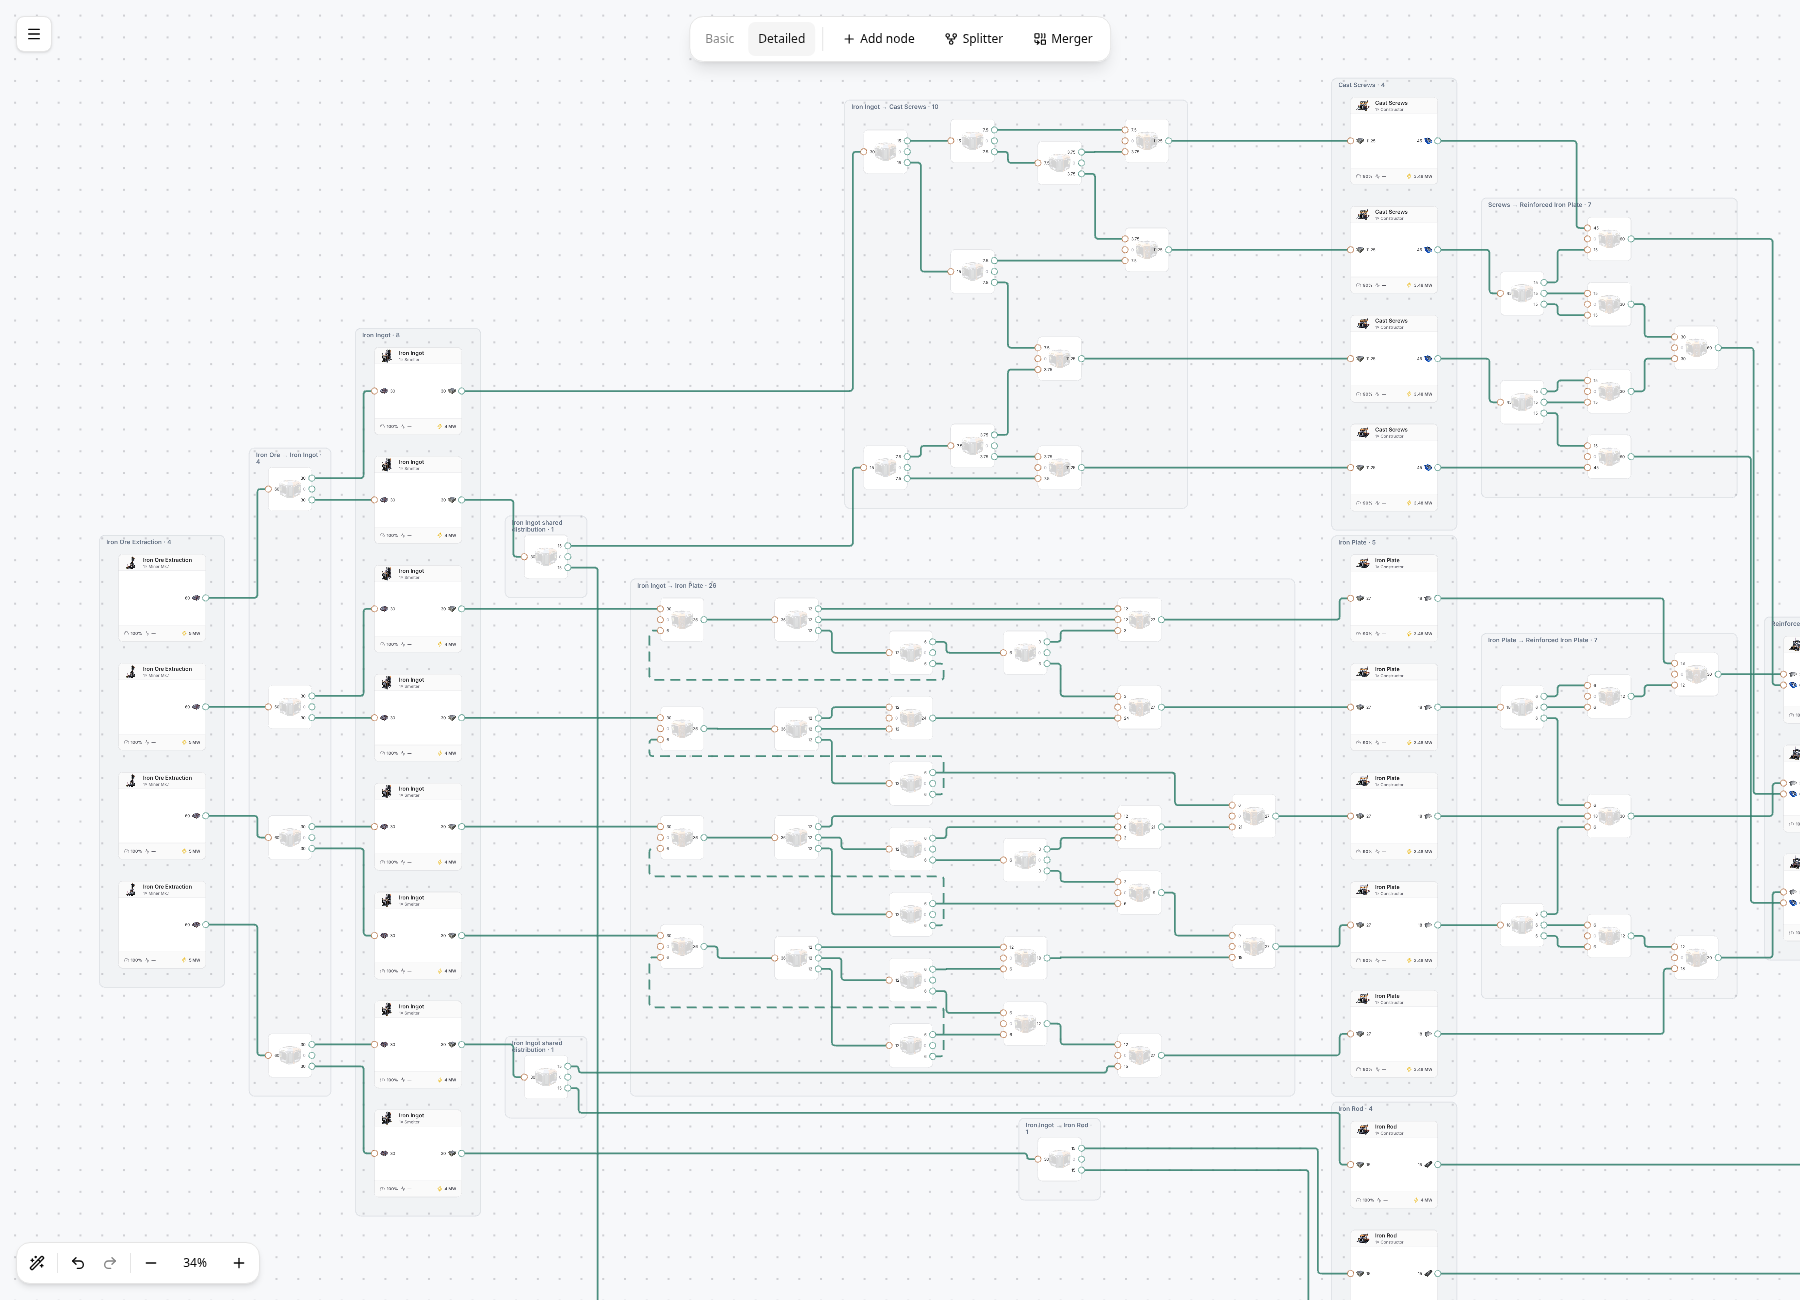
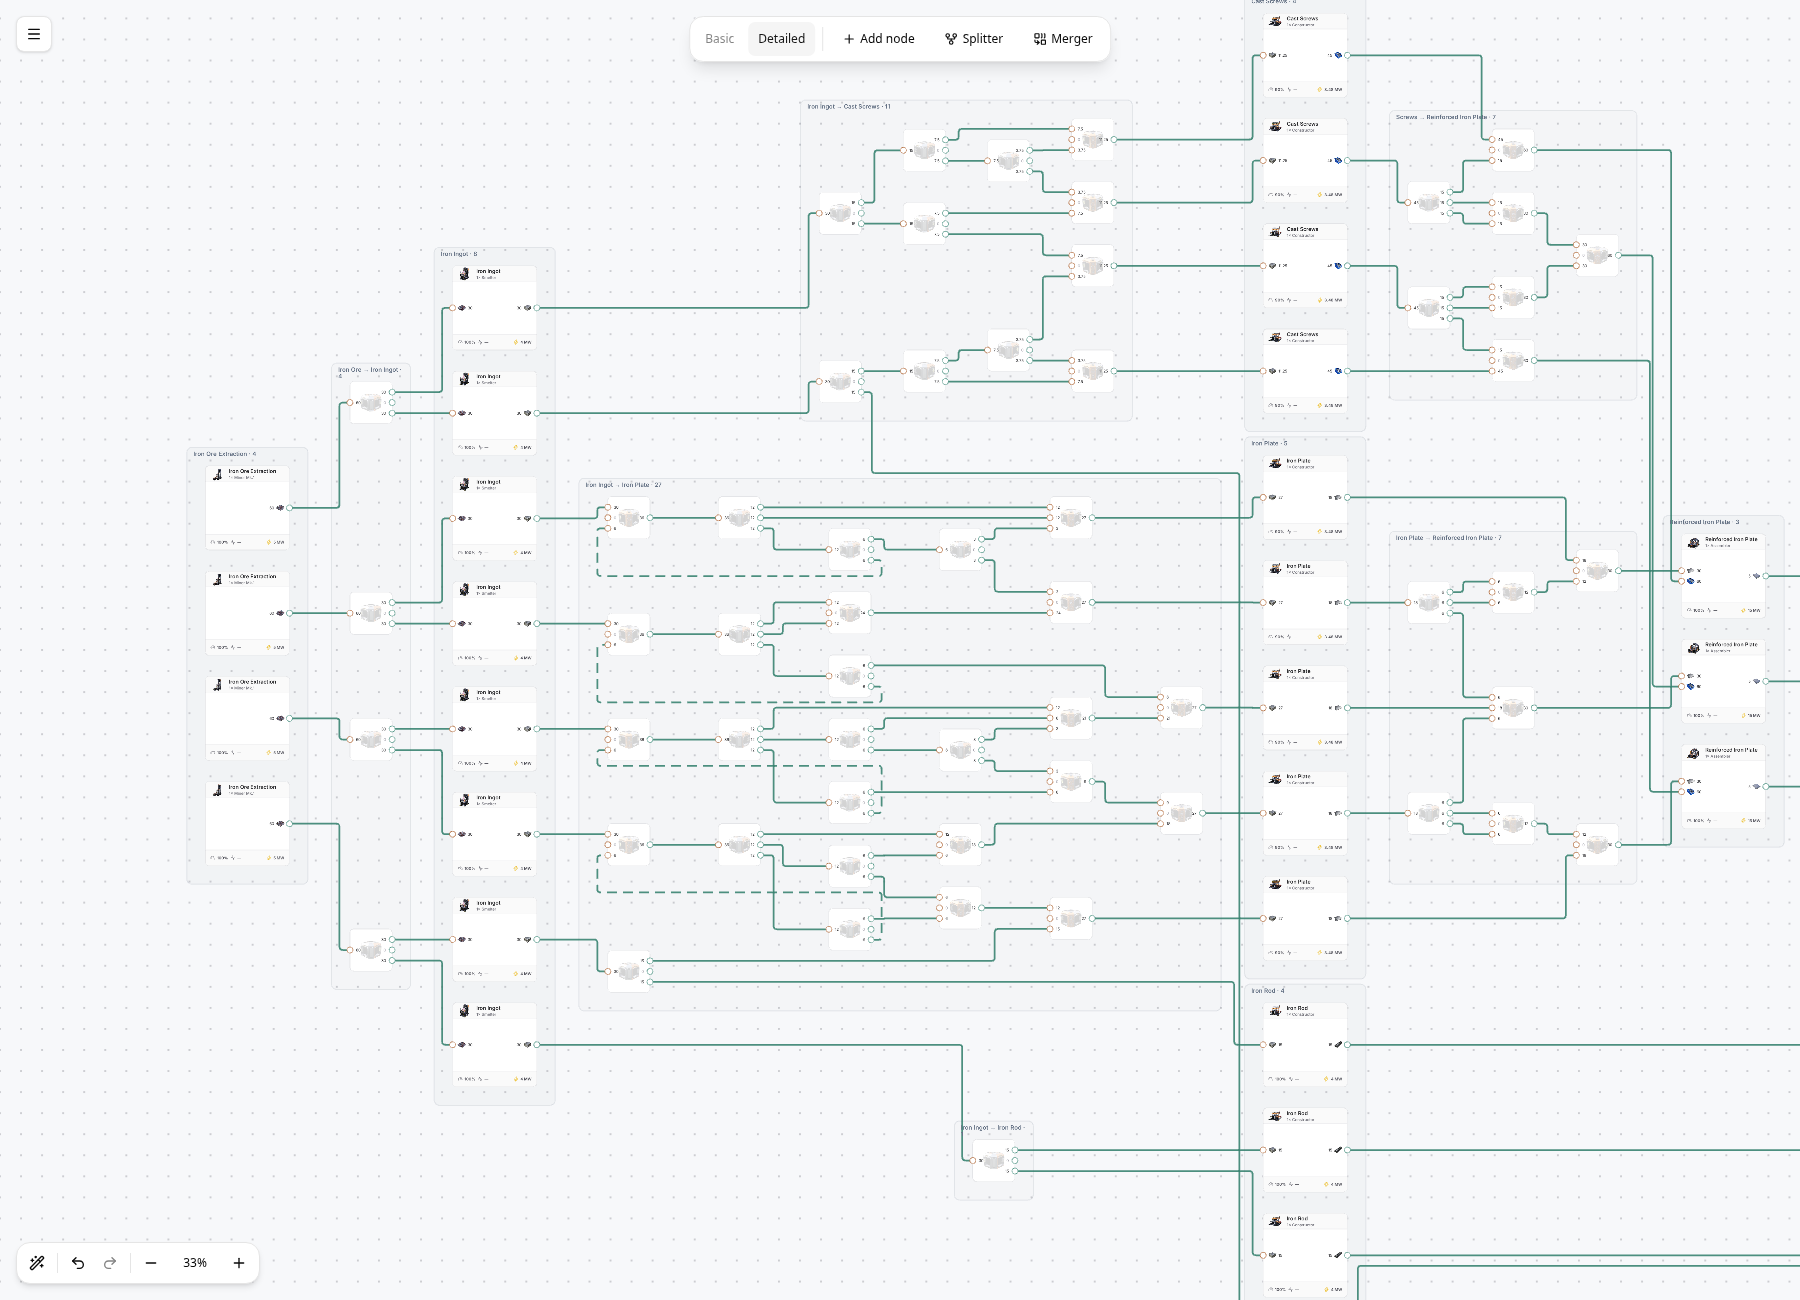
fix(canvas): absorb shared routers into larger logistics groups

diff --git a/apps/web/src/canvas/production-structure.test.ts b/apps/web/src/canvas/production-structure.test.ts
@@ -22,6 +22,31 @@ function network(edges: string[]): CanvasDocument {
   };
 }
 
+function withRecipes(
+  document: CanvasDocument,
+  recipes: Record<string, string>,
+): CanvasDocument {
+  return {
+    ...document,
+    nodes: document.nodes.map((node) =>
+      recipes[node.configuration.id]
+        ? {
+            ...node,
+            configuration: createNode({
+              id: node.configuration.id,
+              kind: "process",
+              buildableId:
+                recipes[node.configuration.id] === "Recipe_IngotIron_C"
+                  ? "Build_SmelterMk1_C"
+                  : "Build_ConstructorMk1_C",
+              processId: recipes[node.configuration.id]!,
+            }).configuration,
+          }
+        : node,
+    ),
+  };
+}
+
 describe("Production structure", () => {
   it("keeps ordinary distribution, collection and long bypasses solid", () => {
     const document = network(["s-a", "s-b", "a-c", "b-c", "s-c"]);
@@ -79,7 +104,7 @@ describe("Production structure", () => {
       "c-c",
     ]);
   });
-  it("separates destination balancers from shared supply without splitting feedback", () => {
+  it("adopts shared supply without merging destination balancers or splitting feedback", () => {
     const document = network([
       "source-shared",
       "shared-a",
@@ -101,35 +126,17 @@ describe("Production structure", () => {
       rods: "Recipe_IronRod_C",
       alone: "Recipe_IronRod_C",
     };
-    const source = {
-      ...document,
-      nodes: document.nodes.map((node) =>
-        recipes[node.configuration.id]
-          ? {
-              ...node,
-              configuration: createNode({
-                id: node.configuration.id,
-                kind: "process",
-                buildableId:
-                  recipes[node.configuration.id] === "Recipe_IngotIron_C"
-                    ? "Build_SmelterMk1_C"
-                    : "Build_ConstructorMk1_C",
-                processId: recipes[node.configuration.id]!,
-              }).configuration,
-            }
-          : node,
-      ),
-    };
+    const source = withRecipes(document, recipes);
     const result = productionStructure(source);
     expect(result.logistics).toEqual([
-      ["a", "loop", "parallel"],
+      ["a", "loop", "parallel", "shared"],
       ["b", "isolated"],
-      ["shared"],
     ]);
-    expect(result.logisticsDestinations.get("shared")).toEqual([
-      "Recipe_IronPlate_C",
-      "Recipe_IronRod_C",
-    ]);
+    expect(result.logisticsDestinations.has("shared")).toBe(false);
+    // The shared splitter's rod branch crosses the plate group's boundary.
+    expect(
+      result.logistics.find((group) => group.includes("shared")),
+    ).not.toContain("b");
     expect(result.logisticsDestinations.get("a")).toEqual([
       "Recipe_IronPlate_C",
     ]);
@@ -149,6 +156,51 @@ describe("Production structure", () => {
         materialLinks: source.materialLinks.toReversed(),
       }),
     ).toEqual(result);
+  });
+
+  it("absorbs successive shared routers while preserving the host identity", () => {
+    const document = withRecipes(
+      network(["a-b", "a-screws", "b-c", "b-rods", "c-d", "d-plates"]),
+      {
+        plates: "Recipe_IronPlate_C",
+        rods: "Recipe_IronRod_C",
+        screws: "Recipe_Screw_C",
+      },
+    );
+    const result = productionStructure(document);
+    expect(result.logistics).toEqual([["c", "a", "b", "d"]]);
+    expect(result.logisticsDestinations.get("c")).toEqual([
+      "Recipe_IronPlate_C",
+    ]);
+  });
+
+  it("does not create a group cycle by absorbing across an alternate forward path", () => {
+    const document = withRecipes(
+      network([
+        "shared-a",
+        "shared-mid",
+        "shared-screws",
+        "mid-end",
+        "end-a",
+        "end-rods",
+        "a-b",
+        "b-c",
+        "c-plates",
+      ]),
+      {
+        plates: "Recipe_IronPlate_C",
+        rods: "Recipe_IronRod_C",
+        screws: "Recipe_Screw_C",
+      },
+    );
+    const result = productionStructure(document);
+    // The larger plate group is connected directly and through the middle
+    // group. Adopt into the middle group so its forward link stays forward.
+    expect(result.logistics).toEqual([
+      ["a", "b", "c"],
+      ["end", "mid", "shared"],
+    ]);
+    expect(result.feedbackLinks.size).toBe(0);
   });
 
   it("draws screen-sized dashes along rounded corners while leaving the route intact", () => {

diff --git a/apps/web/src/canvas/production-structure.ts b/apps/web/src/canvas/production-structure.ts
@@ -249,9 +249,11 @@ function analyzeStructure(document: CanvasDocument) {
     }
     logistics.push([...group].sort(compare));
   }
-  const logisticsDestinations = new Map(
+  // A group describes the main balancing task, not exclusive ownership of
+  // every output. Keep the host's identity/name when it adopts a shared router.
+  const groupDestinations = new Map(
     logistics.map((ids) => [
-      ids[0]!,
+      ids,
       [
         ...new Set(
           [...destinations.get(ids[0]!)!].map(
@@ -261,5 +263,73 @@ function analyzeStructure(document: CanvasDocument) {
       ].sort(compare),
     ]),
   );
+  absorbSingletons(logistics, links);
+  const logisticsDestinations = new Map(
+    logistics.map((ids) => [ids[0]!, groupDestinations.get(ids)!]),
+  );
   return { feedbackLinks, returnNodes, logistics, logisticsDestinations };
+}
+
+/** Fold a lone router into one connected larger area. Other branches remain
+ * ordinary inter-group links; never merge their destination groups together. */
+function absorbSingletons(
+  groups: string[][],
+  links: CanvasDocument["materialLinks"],
+) {
+  const owner = new Map(
+    groups.flatMap((group) => group.map((id) => [id, group] as const)),
+  );
+  let absorbed = true;
+  while (absorbed) {
+    absorbed = false;
+    for (const single of groups.filter((group) => group.length === 1)) {
+      const adjacent = new Map(
+        groups.map((group) => [group, new Set<string[]>()]),
+      );
+      const connections = new Map<string[], number>();
+      for (const link of links) {
+        const from = owner.get(link.from.nodeId),
+          to = owner.get(link.to.nodeId);
+        if (!from || !to || from === to) continue;
+        adjacent.get(from)!.add(to);
+        const neighbor =
+          from === single ? to : to === single ? from : undefined;
+        if (neighbor && neighbor.length > 1)
+          connections.set(neighbor, (connections.get(neighbor) ?? 0) + 1);
+      }
+      // Contracting a direct edge must not turn an alternate forward path into
+      // a cycle between group boxes. Feedback is already enclosed before this pass.
+      const hasIndirectPath = (from: string[], to: string[]) => {
+        const visited = new Set([from]);
+        const queue = [...adjacent.get(from)!].filter((next) => next !== to);
+        for (let i = 0; i < queue.length; i++) {
+          const next = queue[i]!;
+          if (next === to) return true;
+          if (visited.has(next)) continue;
+          visited.add(next);
+          queue.push(...adjacent.get(next)!);
+        }
+        return false;
+      };
+      const host = [...connections.keys()]
+        .filter(
+          (group) =>
+            !hasIndirectPath(single, group) && !hasIndirectPath(group, single),
+        )
+        .sort(
+          (a, b) =>
+            connections.get(b)! - connections.get(a)! ||
+            b.length - a.length ||
+            compare(a[0]!, b[0]!),
+        )[0];
+      if (!host) continue;
+      owner.set(single[0]!, host);
+      // Preserve the original host anchor for saved custom group names.
+      host.push(single[0]!);
+      const [anchor, ...rest] = host;
+      host.splice(0, host.length, anchor!, ...rest.sort(compare));
+      groups.splice(groups.indexOf(single), 1);
+      absorbed = true;
+    }
+  }
 }

diff --git a/apps/web/src/canvas/auto-layout.test.ts b/apps/web/src/canvas/auto-layout.test.ts
@@ -284,9 +284,12 @@ describe("Auto-arrange", () => {
         "Iron Ingot → Cast Screws",
         "Iron Ingot → Iron Plate",
         "Iron Ingot → Iron Rod",
-        "Iron Ingot shared distribution",
       ]),
     );
+    expect(ingotGroups).toHaveLength(3);
+    expect(
+      ingotGroups.map((group) => group.count).sort((a, b) => a - b),
+    ).toEqual([1, 11, 27]);
     for (const id of structure.feedbackLinks) {
       const link = result.materialLinks.find((link) => link.id === id)!;
       expect(

diff --git a/apps/web/e2e/destination-logistics.spec.ts b/apps/web/e2e/destination-logistics.spec.ts
@@ -93,9 +93,11 @@ test("arranges shared ingot supply into destination groups", async ({
       "Iron Ingot → Cast Screws",
       "Iron Ingot → Iron Plate",
       "Iron Ingot → Iron Rod",
-      "Iron Ingot shared distribution",
     ]),
   );
+  expect(
+    layout.names.some((name: string) => name.includes("shared distribution")),
+  ).toBe(false);
   await page.screenshot({
     path: testInfo.outputPath("destination-overview.png"),
   });

diff --git a/docs/plans/production-layout/README.md b/docs/plans/production-layout/README.md
@@ -23,10 +23,11 @@ Cast Screw constructor stack, with separate feeds and space between the groups.
 ## Destination logistics groups
 
 Ingot distribution is now separated by the recipes it supplies. The same
-10-Modular-Frames/min example has a 10-router screw supply group, a 26-router
-plate supply group, one rod splitter, and two separate shared splitters. The
-39 physical routers and their connections are preserved. Shared branches stay
-upstream; the destination groups sit before their machine stacks.
+10-Modular-Frames/min example has an 11-router screw supply group and a 27-router
+plate supply group, each including its connected shared splitter. Those splitters'
+rod branches leave their host groups normally. The remaining standalone rod
+splitter has no router connection to either larger balancer. All 39 physical
+routers and their connections are preserved.
 
 ![Separate ingot supply groups for screws, plates, and rods](destination-groups.png)
 
@@ -38,10 +39,14 @@ upstream; the destination groups sit before their machine stacks.
   actual port identities, smart rules, priorities, and rates stay unchanged.
 - Group routers by the next recipe inputs they supply. Parallel supplies with
   the same destinations stay together; sharing a producer recipe alone does not
-  join them. Routers serving several recipes form shared distribution groups
-  before the destination balancers. Complete feedback paths stay in one group.
-  Headers identify the destination recipe or shared distribution. Capacity limits
-  still describe separate physical belts.
+  join them. Lone routers join a directly connected larger logistics group,
+  preferring the strongest connection, then larger group size and stable ID.
+  Other branches can leave the host group without merging their destination
+  groups. Absorption preserves the host's name and identity, and cannot create
+  a cycle between group areas. Larger shared networks keep their own groups.
+  Complete feedback paths stay in one group. Headers identify the main
+  destination recipe or shared distribution. Capacity limits still describe
+  separate physical belts.
 - Keep every logistics group in its own non-overlapping area between recipe
   groups. Routers at the same forward depth occupy one column; later steps are
   strictly to the right. Recipe stacks and logistics areas never interleave.

diff --git a/README.md b/README.md
@@ -65,8 +65,10 @@ visual scale of the canvas.
 Auto-arrange runs ELK in a worker and fits the result on screen. Machines using
 one recipe form a vertical stack, and parallel production steps share a stage.
 Logistics are grouped by the next recipes they supply: destination balancers
-sit before their machine stacks, with shared distribution in separate upstream
-areas. Sharing a producer alone does not combine all its branches into one group;
+sit before their machine stacks. Lone shared routers join a connected larger
+logistics group, and their other branches can leave that group. Larger shared
+distribution networks keep their own areas. Sharing a producer alone does not
+combine all its branches into one group;
 complete feedback paths stay together. Each area has one router column per
 forward step. Neighboring machine stacks guide its height
 and port spacing, leaving room for long clear runs. Belts use separate lanes
